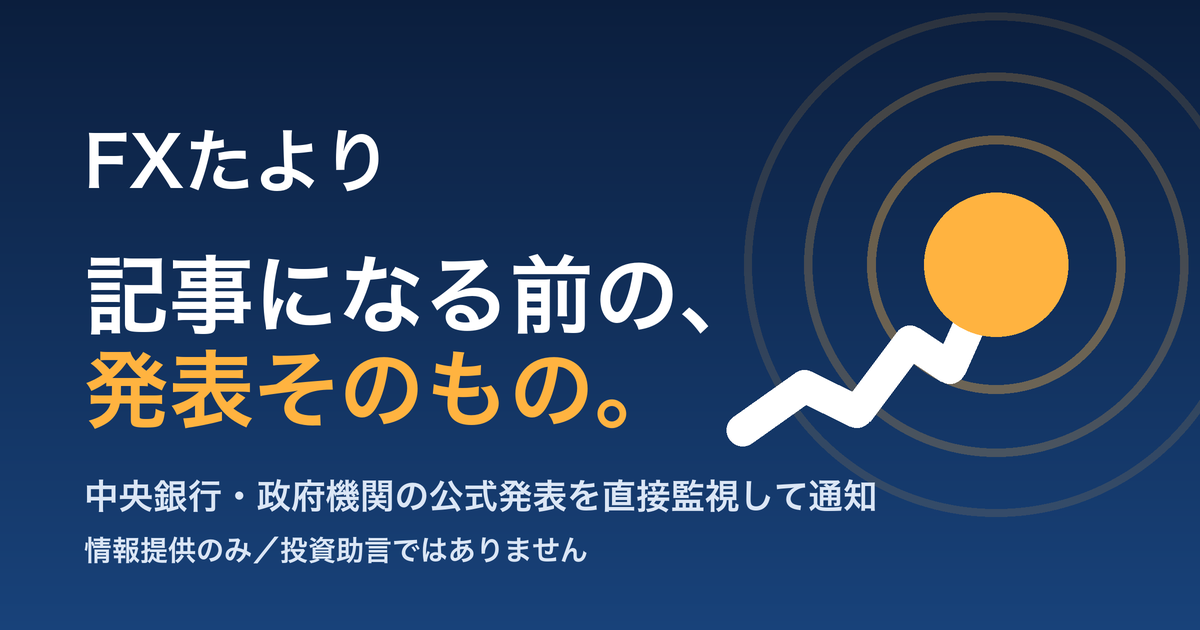
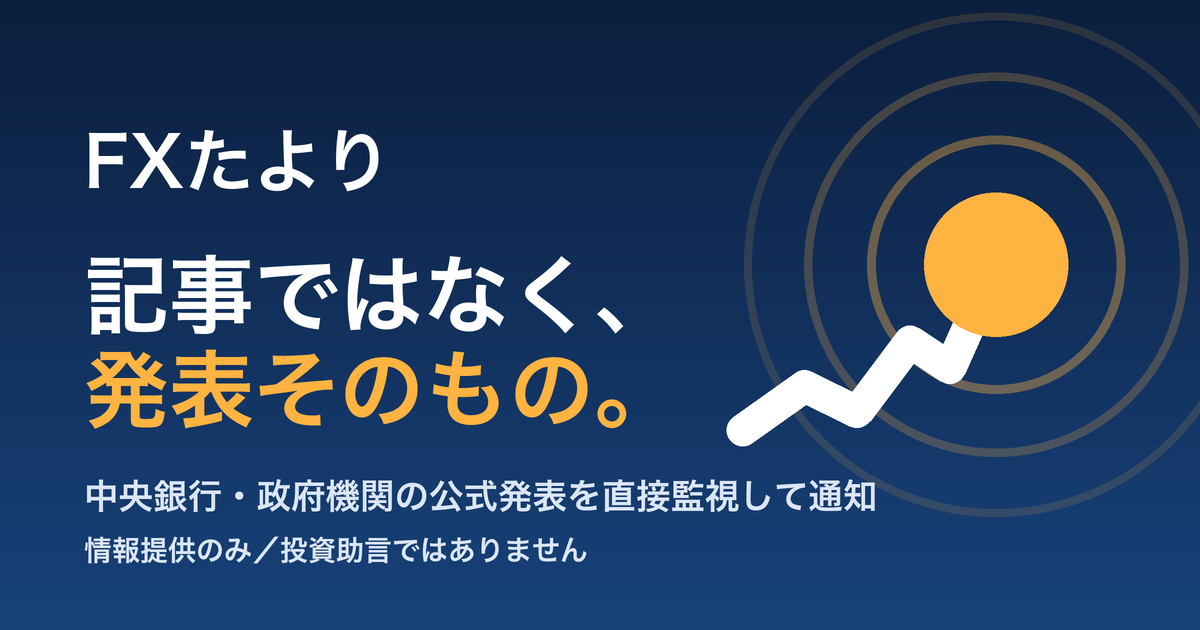
v1.8 LP・プライバシーポリシー（未公開）: 発表元の数を消す、速さを示唆しない見出し、App Store バッジ（キャンペーントークン）・画面3枚・Android テスター募集・CSP、ポリシーに版・配布経路とテスターの情報

Changed region(s): [[0.2158, 0.3921, 0.5858, 0.5429]]

diff --git a/index.html b/index.html
@@ -47,21 +47,24 @@
 <head>
 <meta charset="UTF-8">
 <meta name="viewport" content="width=device-width, initial-scale=1">
+<!-- ★外部の資源を読まない（バッジ・画像もこのリポジトリから配信。v1.8 セキュリティ・法務レビュー） -->
+<meta http-equiv="Content-Security-Policy" content="default-src 'none'; img-src 'self' data:; style-src 'self' 'unsafe-inline'; base-uri 'none'; form-action 'none'">
+<meta name="referrer" content="strict-origin-when-cross-origin">
 <title>FXたより — 中央銀行・政府機関の発表を直接監視して通知</title>
-<meta name="description" content="日本銀行・財務省・金融庁・FRB・ECBなどの公式発表を直接監視し、為替に影響しうる公表があったことをお知らせするiOSアプリ（Android 準備中）。経済指標の日程と結果は8つの統計機関の公表から。予想値は載せません。">
+<meta name="description" content="日本銀行・財務省・金融庁・FRB・ECBなどの公式発表を直接監視し、為替に影響しうる公表があったことをお知らせするiOSアプリ（Android はテスター募集中）。経済指標の日程と結果は各国の統計機関の公表から。予想値は載せません。">
 <meta name="apple-itunes-app" content="app-id=6809456671">
 <meta name="format-detection" content="telephone=no">
 <meta name="theme-color" content="#0b1e3d">
 <meta property="og:type" content="website">
 <meta property="og:site_name" content="FXたより">
-<meta property="og:title" content="FXたより — 記事になる前の、発表そのもの。">
+<meta property="og:title" content="FXたより — 記事ではなく、発表そのもの。">
 <meta property="og:description" content="中央銀行・政府機関の公式発表を直接監視して、為替に影響しうる公表があったことをお知らせします。">
 <meta property="og:url" content="https://kainan0880jwr.github.io/fxtayori/">
 <meta name="twitter:card" content="summary_large_image">
 <meta property="og:image" content="https://kainan0880jwr.github.io/fxtayori/og.png">
 <meta property="og:image:width" content="1200">
 <meta property="og:image:height" content="630">
-<meta property="og:image:alt" content="FXたより — 記事になる前の、発表そのもの。">
+<meta property="og:image:alt" content="FXたより — 記事ではなく、発表そのもの。">
 <link rel="canonical" href="https://kainan0880jwr.github.io/fxtayori/">
 <script type="application/ld+json">
 {
@@ -225,6 +228,20 @@ a:focus-visible,button:focus-visible{outline:3px solid var(--amber); outline-off
   border-radius:20px; padding:16px;
 }
 .mock-caption{font-size:11.5px; color:#a9bcd6; text-align:center; margin:10px 0 0}
+/* App Store バッジ（Apple の素材を改変しない。高さ40px以上・周りに高さの1/4以上の余白） */
+.badge{display:inline-block; padding:10px; margin:-10px 0}
+.badge img{display:block; height:40px; width:auto}
+.cta-sub{font-size:13px; margin:8px 0 0}
+.cta-sub a{color:inherit}
+/* 画面（スマホは横スクロール、PC は3枚並べる） */
+.shots{display:flex; gap:14px; overflow-x:auto; scroll-snap-type:x mandatory; padding:4px 2px 12px; -webkit-overflow-scrolling:touch}
+.shots figure{flex:0 0 68%; margin:0; scroll-snap-align:center}
+.shots img{width:100%; height:auto; border-radius:18px; box-shadow:0 6px 24px rgba(0,0,0,.18); display:block}
+.shots figcaption{font-size:13px; text-align:center; margin-top:8px}
+.shots-note{color:inherit; opacity:.75}
+@media (min-width:720px){ .shots{overflow:visible; justify-content:center} .shots figure{flex:0 1 280px} }
+.stats-note,.note-sm{font-size:12px; opacity:.8; margin-top:10px}
+.tester-steps{padding-left:1.4em; line-height:1.9}
 .notif{
   background:rgba(255,255,255,.96); color:#101722;
   border-radius:13px; padding:12px 14px; margin-bottom:9px;
@@ -459,25 +476,26 @@ footer .about{font-size:13.5px; color:var(--muted); margin:10px 0 0; max-width:2
   <div class="wrap">
     <div class="hero-grid">
       <div>
-        <p class="eyebrow">iOS アプリ　／　Android 準備中</p>
-        <h1>記事になる前の、<br><span class="amber">発表そのもの</span>。</h1>
+        <p class="eyebrow">iOS アプリ　／　Android はテスター募集中</p>
+        <h1>記事ではなく、<br><span class="amber">発表そのもの</span>。</h1>
         <p class="lead">
-          中央銀行・政府機関の公式発表を直接監視して、為替に影響しうる公表があったことをお知らせします。
-          届くのは、公表があった事実と原文へのリンクだけです。経済指標の日程と結果も、各国の統計機関の公表から取り込みます。
+          中央銀行・政府機関の公式発表を直接監視して、為替に影響しうる公表があった事実と原文へのリンクをお知らせします。
         </p>
-        <ul class="chips">
-          <li><b>12</b>の監視ソース</li>
-          <li>指標の日程を<b>8</b>つの統計機関から</li>
-          <li>為替介入の記録<b>386</b>件</li>
-        </ul>
-
-        <!-- ▼STORE▼ Google Play 公開後、2つ目を実リンクに差し替える -->
+        <!-- ▼STORE▼ ★App Store のリンクはキャンペーントークン付き（ct=lp_top）。ASC の「キャンペーン」で LP 経由の閲覧・DL を数える
+             （5件未満は表示されない）。★発表元の数は書かない（取得先の増減で嘘になる。v1.8 レビュー）
+             ★Google Play のバッジは製品版の公開まで使わない -->
         <div class="cta">
-          <a class="btn btn-primary" href="https://apps.apple.com/jp/app/id6809456671" rel="noopener">App Store で入手</a>
-          <span class="btn btn-primary" aria-disabled="true">Google Play（準備中）</span>
+          <a class="badge" href="https://apps.apple.com/app/apple-store/id6809456671?pt=129108253&amp;ct=lp_top&amp;mt=8" rel="noopener"><img src="img/app-store-badge-ja.svg" width="120" height="40" alt="App Store からダウンロード"></a>
           <a class="btn btn-ghost" href="#features">できることを見る</a>
         </div>
+        <p class="cta-sub"><a href="#android">Android の方はこちら（テスター募集中）</a></p>
         <!-- ▲STORE▲ -->
+
+        <ul class="chips">
+          <li>日銀・財務省・金融庁</li>
+          <li>FRB・ECB・BOE など</li>
+          <li>為替介入の記録（1991年〜）</li>
+        </ul>
 
         <p class="cta-note">情報提供のみ／投資助言ではありません。無料で使えます。任意の有料プラン「プラス」は<a href="#pricing" style="color:inherit">料金</a>をご覧ください。</p>
       </div>
@@ -509,6 +527,21 @@ footer .about{font-size:13.5px; color:var(--muted); margin:10px 0 0; max-width:2
 </section>
 
 <!-- ============================================================
+     画面（v1.8）。★ストアと同じ実画面。スマホは横にスクロール、PC は3枚並べる
+     ============================================================ -->
+<section id="screens" aria-label="画面">
+  <div class="wrap">
+    <h2>アプリの画面</h2>
+    <div class="shots">
+      <figure><img src="img/shot_news.webp" width="540" height="1173" loading="lazy" alt="ニュースの画面。次の重要な発表の予定と、日本銀行・ECB・FRB の公表の一覧"><figcaption>公表の一覧と、次の山場</figcaption></figure>
+      <figure><img src="img/shot_results.webp" width="540" height="1173" loading="lazy" alt="経済指標の結果の画面。発表された数値と前回の値の一覧"><figcaption>経済指標の結果</figcaption></figure>
+      <figure><img src="img/shot_intervention.webp" width="540" height="1173" loading="lazy" alt="為替介入の画面。財務省が公表した介入の日付と金額の一覧"><figcaption>為替介入の記録</figcaption></figure>
+    </div>
+    <p class="mock-caption shots-note">表示イメージです（内容は撮影時点のもの）。情報提供のみ／投資助言ではありません。</p>
+  </div>
+</section>
+
+<!-- ============================================================
      監視ソース
      ★機能より先にソースを見せる。一次情報アプリではソースが仕様そのもので、
        「何を見ているか」が分かった時点で説得はほぼ終わる。
@@ -517,7 +550,7 @@ footer .about{font-size:13.5px; color:var(--muted); margin:10px 0 0; max-width:2
   <div class="wrap">
     <h2>見ているのは、当局の公式サイトそのもの</h2>
     <p class="sec-lead">
-      11のフィードを直接監視しています。日本の3機関が入っているところが、海外発のサービスとの違いです。
+      日本の3機関（日本銀行・財務省・金融庁）と、海外の中央銀行・政府機関の公式サイトとフィードを、直接監視しています。
     </p>
 
     <div class="sources">
@@ -583,9 +616,9 @@ footer .about{font-size:13.5px; color:var(--muted); margin:10px 0 0; max-width:2
      ============================================================ -->
 <section id="how">
   <div class="wrap">
-    <h2>記事を待たない、という設計</h2>
+    <h2>発表元を直接見る、という設計</h2>
     <p class="sec-lead">
-      報道記事は、記者が発表を読んでから書かれます。本アプリは発表そのものを見ているので、間に人の作業が入りません。
+      報道記事を経由せず、発表元のサイトとフィードを定期的に確認して、公表があったことをお知らせします。確認の間隔や配信の状況によって通知は遅れることがあり、報道より早く届くことを保証するものではありません。
     </p>
 
     <div class="steps">
@@ -706,6 +739,7 @@ footer .about{font-size:13.5px; color:var(--muted); margin:10px 0 0; max-width:2
       <div class="stat"><b>1991年</b><span>さかのぼれる最初の年</span></div>
       <div class="stat"><b>122兆円</b><span>記録されている累計額</span></div>
     </div>
+    <p class="stats-note">件数・累計額は、2026年10月時点の財務省の公表に基づきます。</p>
 
     <div class="grid cols-2">
       <div class="card">
@@ -730,6 +764,23 @@ footer .about{font-size:13.5px; color:var(--muted); margin:10px 0 0; max-width:2
        買ってから「無料でも足りた」と気づかれる（アプリ内の購入画面と同じ順序）。
        表の内容は fx_tayori/lib/screens/plus_screen.dart の _featureTable と一致させること。
      ============================================================ -->
+<!-- ============================================================
+     Android テスター募集（v1.8）。★文面は FXニュース/output/release/closed_test_testers_20261001.md と同じ。
+       「儲かる」「勝てる」「予想」「最速」「必ず」、特典との引き換えは書かない
+     ============================================================ -->
+<section id="android" class="section-alt">
+  <div class="wrap">
+    <h2>Android 版のテスターを募集しています</h2>
+    <p class="sec-lead">Google Play で公開するために、14日間のテストにご協力いただける方を探しています。インストールしたままにしていただくだけで、毎日使う必要はありません。</p>
+    <ol class="tester-steps">
+      <li>Google Play で使っている Google アカウントで、<a href="https://groups.google.com/g/fxtayori-testers" rel="noopener">テスター用の Google グループ</a>に参加する</li>
+      <li><a href="https://play.google.com/apps/testing/jp.fxtayori.app" rel="noopener">テストのページ</a>で「テスターになる」を押す（グループに入ってから数分かかることがあります）</li>
+      <li><a href="https://play.google.com/store/apps/details?id=jp.fxtayori.app" rel="noopener">Google Play</a>からインストールし、14日間はアンインストールしない</li>
+    </ol>
+    <p class="note-sm">グループからメールが届くことはなく、ほかの参加者にメールアドレスが見えることもありません。当方はテスターの管理のためにメールアドレスを閲覧できます（<a href="privacy.html">プライバシーポリシー</a> 3.3）。製品版の公開後、グループは閉じて削除します。</p>
+  </div>
+</section>
+
 <section id="pricing">
   <div class="wrap">
     <h2>料金</h2>
@@ -866,7 +917,7 @@ footer .about{font-size:13.5px; color:var(--muted); margin:10px 0 0; max-width:2
     </details>
     <details>
       <summary>Android 版はありますか</summary>
-      <div class="a"><p>準備中です。現在はクローズドテストの段階で、公開の時期が決まりましたらこのページでお知らせします。</p></div>
+      <div class="a"><p>現在はクローズドテストの段階です。<a href="#android">テスターを募集しています</a>。公開の時期が決まりましたらこのページでお知らせします。</p></div>
     </details>
     <details>
       <summary>ホーム画面ウィジェットの置き方は</summary>
@@ -886,11 +937,11 @@ footer .about{font-size:13.5px; color:var(--muted); margin:10px 0 0; max-width:2
     <p style="margin:0 auto 24px">
       判断するのはご自身です。本アプリは、判断に必要な公表があったことをお伝えするところまでを担当します。
     </p>
-    <!-- ▼STORE▼ Google Play 公開後、2つ目を実リンクに差し替える -->
-    <div class="cta">
-      <a class="btn btn-primary" href="https://apps.apple.com/jp/app/id6809456671" rel="noopener">App Store で入手</a>
-      <span class="btn btn-primary" aria-disabled="true">Google Play（準備中）</span>
+    <!-- ▼STORE▼ ct=lp_bottom。Google Play は製品版の公開後に足す -->
+    <div class="cta" style="justify-content:center">
+      <a class="badge" href="https://apps.apple.com/app/apple-store/id6809456671?pt=129108253&amp;ct=lp_bottom&amp;mt=8" rel="noopener"><img src="img/app-store-badge-ja.svg" width="120" height="40" alt="App Store からダウンロード"></a>
     </div>
+    <p class="cta-sub"><a href="#android">Android の方はこちら（テスター募集中）</a></p>
     <!-- ▲STORE▲ -->
     <p class="cta-note">iOS 15 以降　情報提供のみ／投資助言ではありません</p>
   </div>
@@ -943,8 +994,8 @@ footer .about{font-size:13.5px; color:var(--muted); margin:10px 0 0; max-width:2
     <div class="legal">
       <p>事業者：IKD Studio　連絡先：<a href="mailto:kainan0880jwr@gmail.com">kainan0880jwr@gmail.com</a></p>
       <p>不具合のご報告では、アプリの「設定」→「端末ID」に表示される値をお知らせいただけると調査が早くなります。</p>
-      <p>App Store は Apple Inc. の、Google Play は Google LLC の商標です。</p>
-      <p>最終更新：2026年9月21日（v1.3 対応）</p>
+      <p>Apple、Apple ロゴ、App Store は、米国その他の国と地域で登録された Apple Inc. の商標です。Google Play は Google LLC の商標です。</p>
+      <p>最終更新：2026年10月XX日</p>
     </div>
   </div>
 </footer>

diff --git a/privacy.html b/privacy.html
@@ -20,7 +20,7 @@
 </table>
 
 <h2>2. 基本方針</h2>
-<p>本アプリは、<strong>氏名・メールアドレス・電話番号・住所・生年月日・取引口座・取引履歴・資産に関する情報を一切収集しません。</strong>これらを保存するためのデータベース項目も設けていません。</p>
+<p>本アプリは、<strong>氏名・メールアドレス・電話番号・住所・生年月日・取引口座・取引履歴・資産に関する情報を一切収集しません。</strong>これらを保存するためのデータベース項目も設けていません。（お問い合わせのメール（第7項）と、Android 版のテストへの参加（第3.3項）は、本アプリの外で、ご本人が当方に連絡し、または参加を申し込んだ場合に限られます。）</p>
 <p>なお、「証拠金・pips の計算」で入力する数値（レート、数量、有効証拠金等）は、お使いの端末の中だけで計算に使い、当方が保存・取得することはありません。当方のサーバーへも送信しません。</p>
 <p>利用者を個人として識別するための情報は取得しませんが、通知を届けるために必要な技術的な情報を取り扱います。以下に具体的に記載します。</p>
 
@@ -32,6 +32,8 @@
   <tr><td>プッシュ通知トークン</td><td>通知を許可したとき</td><td>通知の送信先を特定するため</td></tr>
   <tr><td>端末識別子（当方が発行するランダムなUUID）</td><td>初回起動時</td><td>利用者の設定を紐づけるため</td></tr>
   <tr><td>プラットフォーム種別（ios / android）</td><td>初回起動時</td><td>通知の形式を出し分けるため</td></tr>
+  <tr><td>アプリの版・配布経路（ストア版／TestFlight／開発版の別）</td><td>初回起動時・アプリの起動時（1.5.2 以降）</td><td>不具合の調査のため、および開発用の端末を除いて利用状況（利用している端末の数）を集計するため</td></tr>
+  <tr><td>最終利用日時（アプリを起動した日時）</td><td>アプリの起動時</td><td>長期間使われていない端末の記録を削除するため、および利用状況（利用している端末の数）を集計するため</td></tr>
   <tr><td>監視通貨ペア・通知しきい値・指標アラート（段数を含む）・週次ダイジェスト・朝の通知（今日の主な発表）・発表元ごとの通知停止の設定</td><td>設定を変更したとき</td><td>通知の対象を絞り込むため</td></tr>
   <tr><td>免責事項への同意日時</td><td>同意したとき</td><td>同意の記録を残すため</td></tr>
   <tr><td>通知の送信履歴</td><td>通知を送ったとき</td><td>二重送信の防止と送信数の上限管理のため</td></tr>
@@ -54,12 +56,20 @@
   <li><a href="https://www.cloudflare.com/privacypolicy/">Cloudflare のプライバシーポリシー</a></li>
 </ul>
 
+<h3>3.3 Android 版のテストへの参加者の情報</h3>
+<p>Google Play で Android 版を公開する前のテストに参加いただく方は、Google グループ（Google LLC が提供）に参加していただきます。当方はグループの管理者として、参加者の <strong>Google アカウントのメールアドレス</strong>を閲覧できます。</p>
+<ul>
+  <li>利用目的：テストの参加者の管理（参加の確認と、テストに関するご連絡）のためだけに使います。本アプリの端末の記録とは紐づけません。</li>
+  <li>メンバーの一覧は管理者だけが見られる設定で、他の参加者からメールアドレスは見えません。グループからの一斉送信は行いません。</li>
+  <li>保存期間：Android 版の製品版の公開後、グループを閉じて削除します。それまでの間も、グループから退出すれば当方は閲覧できなくなります。</li>
+</ul>
+
 <h2>4. 外部送信に関する公表（電気通信事業法27条の12）</h2>
 <p>本アプリは、利用者の端末から次の情報を外部へ送信します。</p>
 <table>
   <tr><th>送信先</th><th>送信される情報</th><th>目的</th><th>停止方法</th></tr>
   <tr><td>Google LLC（米国）</td><td>プッシュ通知トークン、Firebase インストールID、端末・OSの種別、IPアドレス</td><td>プッシュ通知の配信</td><td>本アプリを削除する（端末の通知をオフにしても、アプリの起動時に Firebase の初期化が行われるため、送信は停止しません）</td></tr>
-  <tr><td>当方のサーバー（Cloudflare／米国・アジア太平洋）</td><td>通知トークン、端末識別子、プラットフォーム種別、設定内容、IPアドレス（アプリの起動時にも、最終利用日時を更新するために送信します）</td><td>通知の送信先と対象の管理</td><td>本アプリを削除する</td></tr>
+  <tr><td>当方のサーバー（Cloudflare／米国・アジア太平洋）</td><td>通知トークン、端末識別子、プラットフォーム種別、アプリの版・配布経路、設定内容、IPアドレス（アプリの起動時にも、最終利用日時とアプリの版を更新するために送信します）</td><td>通知の送信先と対象の管理、不具合の調査、利用状況の集計</td><td>本アプリを削除する</td></tr>
 </table>
 <p>本アプリは、広告配信・行動ターゲティング・アクセス解析を目的とした第三者への情報送信を行っていません。広告SDK・解析SDKを組み込んでいません。</p>
 
@@ -73,6 +83,7 @@
   <tr><td>通知を許可していない端末の設定</td><td>最終利用から30日</td></tr>
   <tr><td>通知の送信履歴</td><td>送信から30日</td></tr>
   <tr><td>有料プランの有効期限・取引識別子</td><td>端末の記録が削除されるまで（上記に同じ）</td></tr>
+  <tr><td>アプリの版・配布経路・最終利用日時</td><td>端末の記録が削除されるまで（上記に同じ）</td></tr>
   <tr><td>通知の送信件数などの運用の記録（端末を特定しない集計）</td><td>1年</td></tr>
   <tr><td>ニュース・経済指標のデータ</td><td>個人に関する情報を含みません</td></tr>
 </table>
@@ -100,7 +111,7 @@
 <p>内容を変更する場合は、本ページに変更後の内容を掲載します。重要な変更を行う場合は、アプリ内でお知らせし、必要に応じて再同意をいただきます。</p>
 
 <footer>
-  <p>制定日：2026年9月6日　最終更新日：2026年10月5日（購入識別子のハッシュ化、運用の記録とバックアップの保存期間、お問い合わせの扱い）</p>
+  <p>制定日：2026年9月6日　最終更新日：2026年10月XX日（アプリの版・配布経路の取得（アプリ 1.5.2 以降）、最終利用日時の利用目的、Android 版のテストへの参加者の情報）</p>
   <p>IKD Studio　<a href="mailto:kainan0880jwr@gmail.com">kainan0880jwr@gmail.com</a></p>
   <p><a href="./">トップ</a><a href="terms.html">利用規約</a><a href="tokushoho.html">特定商取引法に基づく表示</a></p>
 </footer>
